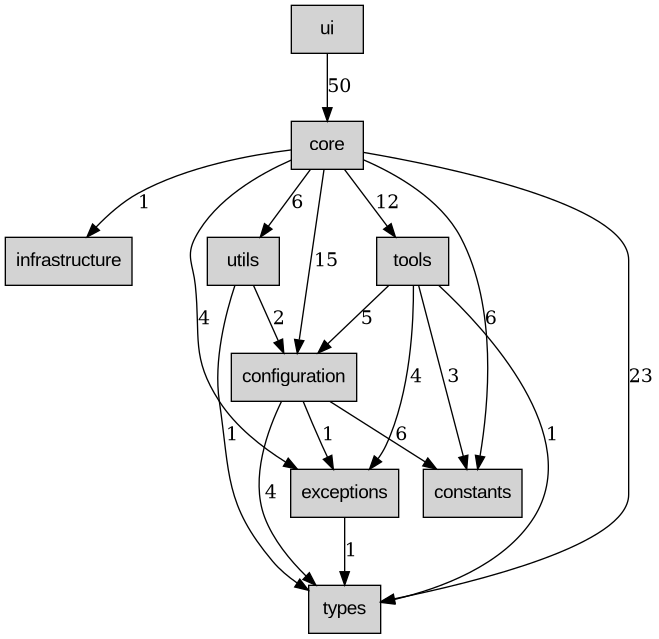
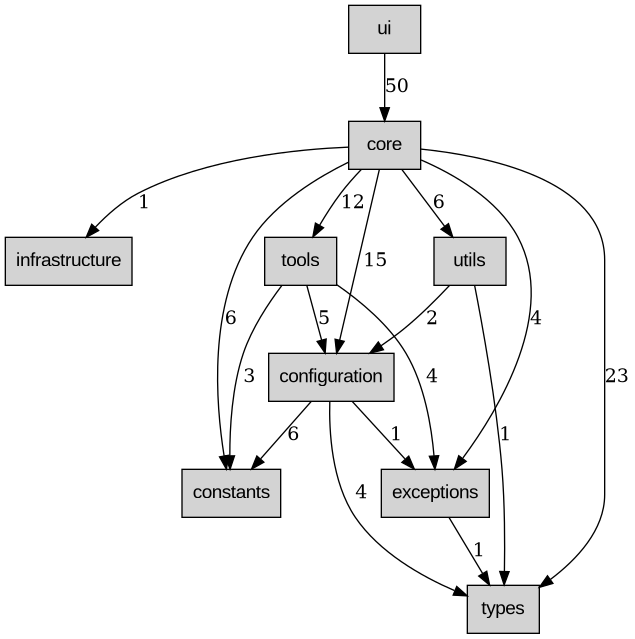
refactor: remove tools -> types dependency (ToolArgs alias)
Replace ToolArgs type alias with dict[str, Any] directly in
command_parser.py to eliminate the unnecessary import.

- Remove: from tunacode.types import ToolArgs
- Change: async def parse_args(...) -> ToolArgs
  To:      async def parse_args(...) -> dict[str, Any]

This removes the last tools -> types cross-layer dependency,
aligning with Gate 2 (Dependency Direction).

diff --git a/src/tunacode/tools/parsing/command_parser.py b/src/tunacode/tools/parsing/command_parser.py
@@ -11,13 +11,12 @@ from tunacode.constants import (
     JSON_PARSE_MAX_RETRIES,
 )
 from tunacode.exceptions import ValidationError
-from tunacode.types import ToolArgs
 
 from tunacode.tools.parsing.json_utils import safe_json_parse
 from tunacode.tools.parsing.retry import retry_json_parse_async
 
 
-async def parse_args(args: Any) -> ToolArgs:
+async def parse_args(args: Any) -> dict[str, Any]:
     """
     Parse tool arguments from a JSON string or dictionary with retry logic.
 

diff --git a/docs/architecture/DEPENDENCY_LAYERS.md b/docs/architecture/DEPENDENCY_LAYERS.md
@@ -1,6 +1,6 @@
 # Dependency Layers
 
-Generated: 2026-01-27
+Generated: 2026-01-28
 
 ## Layer Order (topological)
 
@@ -34,7 +34,6 @@ types
 | tools | configuration | 5 |
 | tools | constants | 3 |
 | tools | exceptions | 4 |
-| tools | types | 1 |
 | ui | core | 50 |
 | utils | configuration | 2 |
 | utils | types | 1 |
